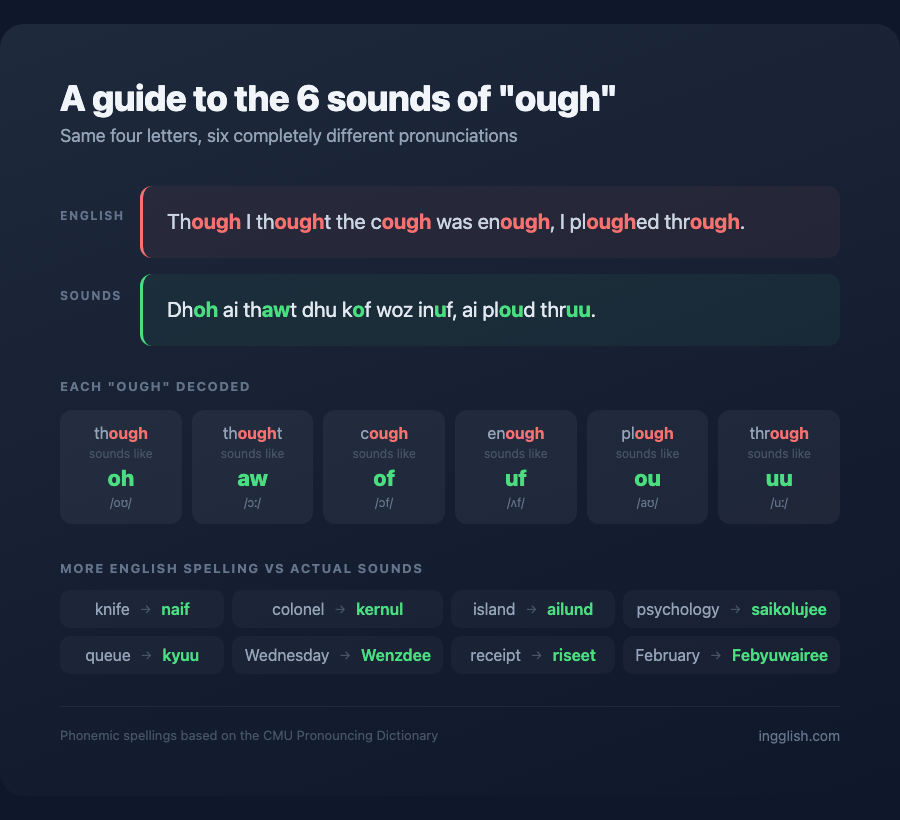
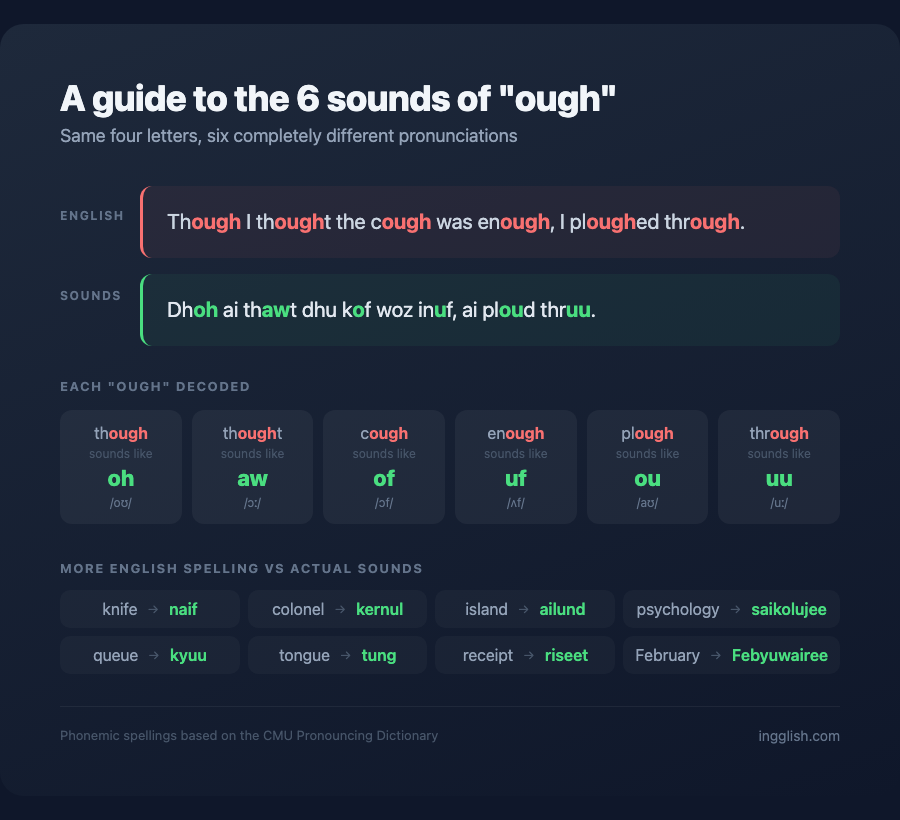
swap Wednesday for tongue in social card
Wednesday→Wenzdee was causing debates about vowel reduction.
tongue→tung is uncontroversial and still shows silent letters.

diff --git a/social-card.html b/social-card.html
@@ -225,7 +225,7 @@
     <div class="more-cell"><span class="from">island</span><span class="arr">→</span><span class="to">ailund</span></div>
     <div class="more-cell"><span class="from">psychology</span><span class="arr">→</span><span class="to">saikolujee</span></div>
     <div class="more-cell"><span class="from">queue</span><span class="arr">→</span><span class="to">kyuu</span></div>
-    <div class="more-cell"><span class="from">Wednesday</span><span class="arr">→</span><span class="to">Wenzdee</span></div>
+    <div class="more-cell"><span class="from">tongue</span><span class="arr">→</span><span class="to">tung</span></div>
     <div class="more-cell"><span class="from">receipt</span><span class="arr">→</span><span class="to">riseet</span></div>
     <div class="more-cell"><span class="from">February</span><span class="arr">→</span><span class="to">Febyuwairee</span></div>
   </div>
